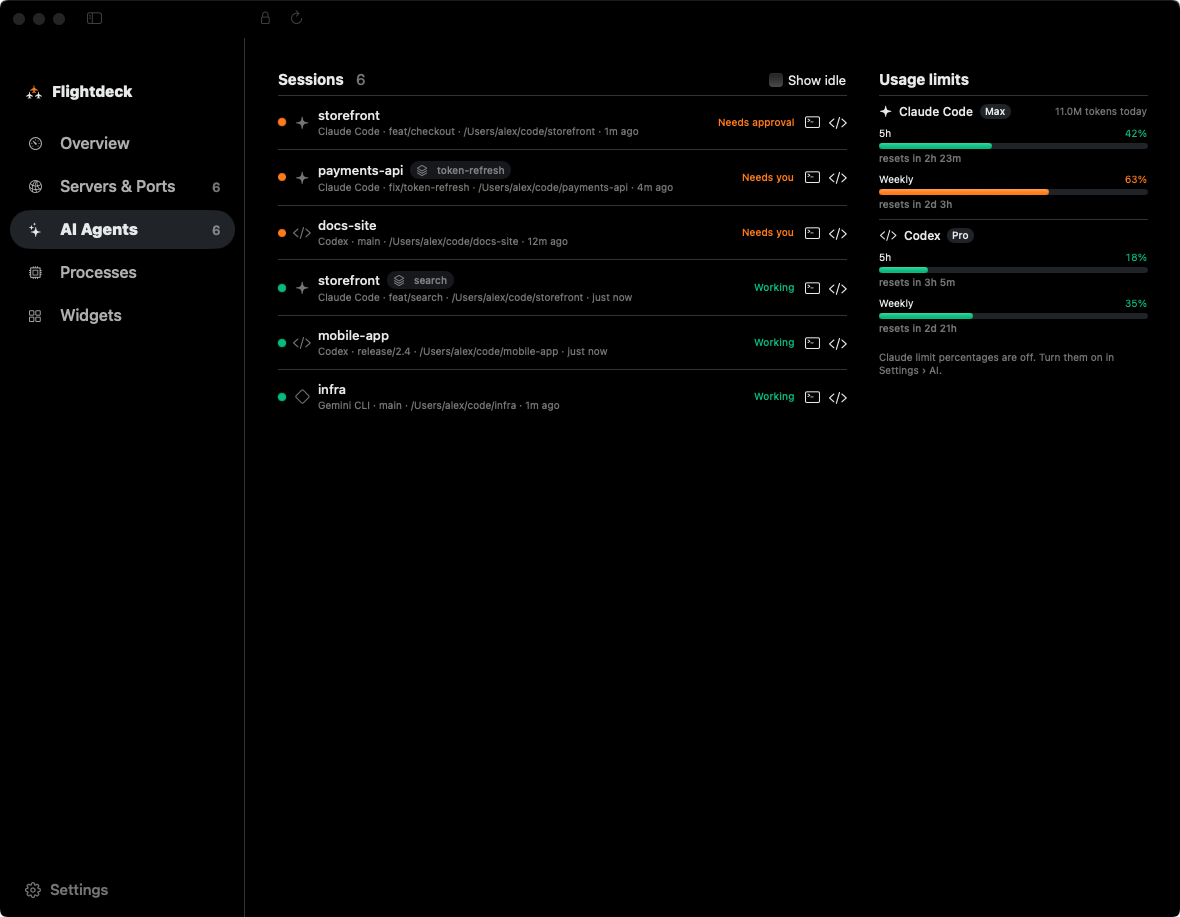
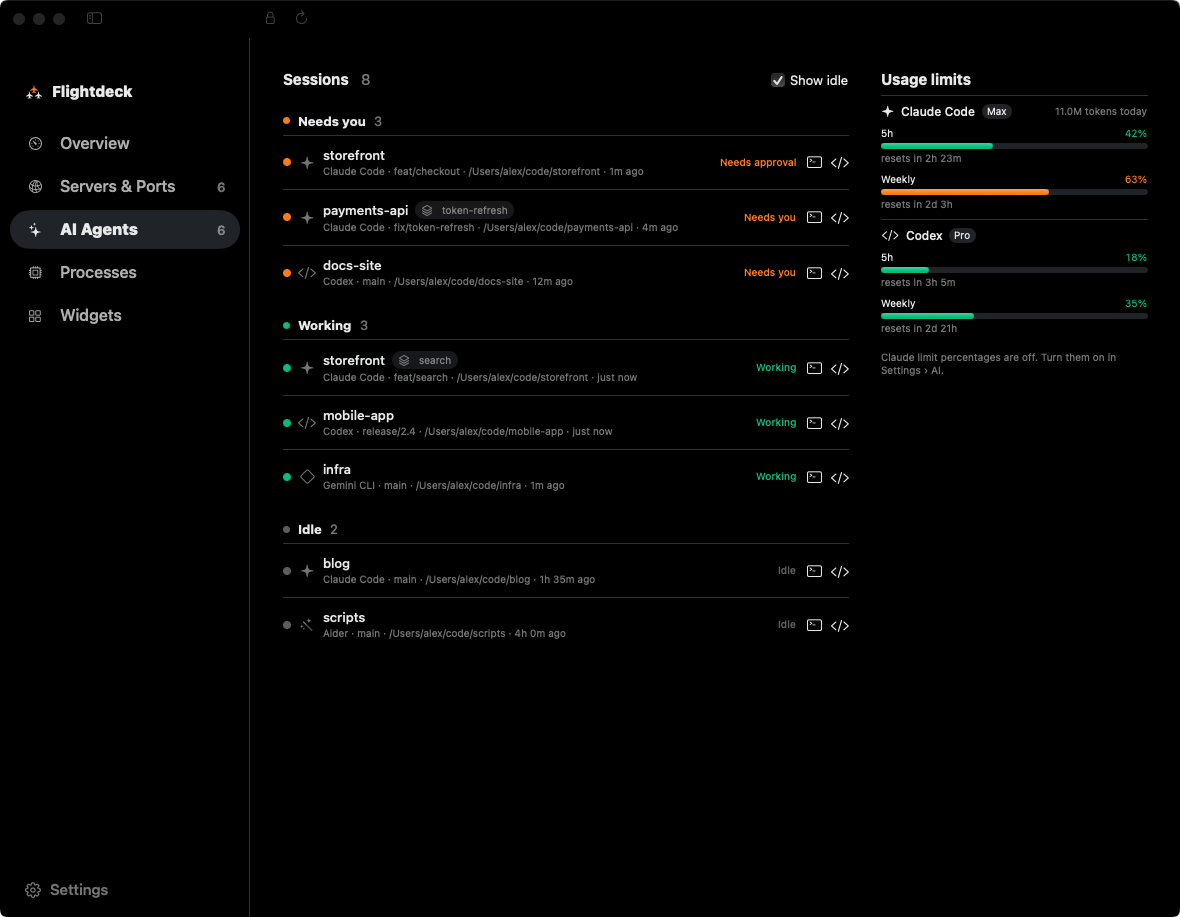
Retake screenshots with the ring gauges and grouped agents
- New overview, agents and edit-layout screenshots in docs and on the site
- Move the tour pins to match and describe the new limit rings
- Match the overview and social image sizes to the new capture

diff --git a/site/app/page.tsx b/site/app/page.tsx
@@ -21,17 +21,17 @@ const PINS = [
     body: "Type to find any agent or project across Claude Code, Codex, Gemini CLI, Cursor Agent, opencode and Aider. Press Return or ⌘K to ask Claude about what's running. The picker sets your default agent, whose limits show below.",
   },
   { x: 22, y: 19, title: "Who needs you", body: "The agent waiting on you leads, with a count of the others." },
-  { x: 22, y: 35, title: "Go to terminal", body: "Opens that agent's own terminal. Later sets it aside." },
+  { x: 22, y: 36.5, title: "Go to terminal", body: "Opens that agent's own terminal. Later sets it aside." },
   { x: 70.5, y: 21, title: "A big clock", body: "Readable from across the room on a second screen." },
   {
     x: 22,
-    y: 47.6,
+    y: 50,
     title: "System and limits",
-    body: "CPU, memory and disk, plus Claude and Codex usage limits read from local logs.",
+    body: "CPU and memory, plus your default agent's 5h and week limits. Add disk, network, battery or Claude Code and Codex limits side by side.",
   },
   {
     x: 22,
-    y: 60,
+    y: 61,
     title: "Needs you",
     body: "Every waiting agent: what it said or wants to run, its folder and branch. Hover a card and clear it until that agent does something new.",
   },
@@ -130,7 +130,7 @@ export default function Home() {
               src="/screenshots/overview.png"
               alt="Flightdeck overview with numbered labels: search and ask, who needs you, go to terminal, clock, system and limits, the Needs you list and pages"
               width={1146}
-              height={1135}
+              height={1085}
               priority
             />
             {PINS.map((pin, index) => (

diff --git a/site/app/opengraph-image.tsx b/site/app/opengraph-image.tsx
@@ -51,7 +51,7 @@ export default async function OpenGraphImage(): Promise<ImageResponse> {
         <img
           src={readScreenshot("overview.png")}
           width={573}
-          height={568}
+          height={543}
           style={{ marginTop: 72, borderRadius: 18, border: `2px solid ${COLORS.line}` }}
           alt=""
         />
